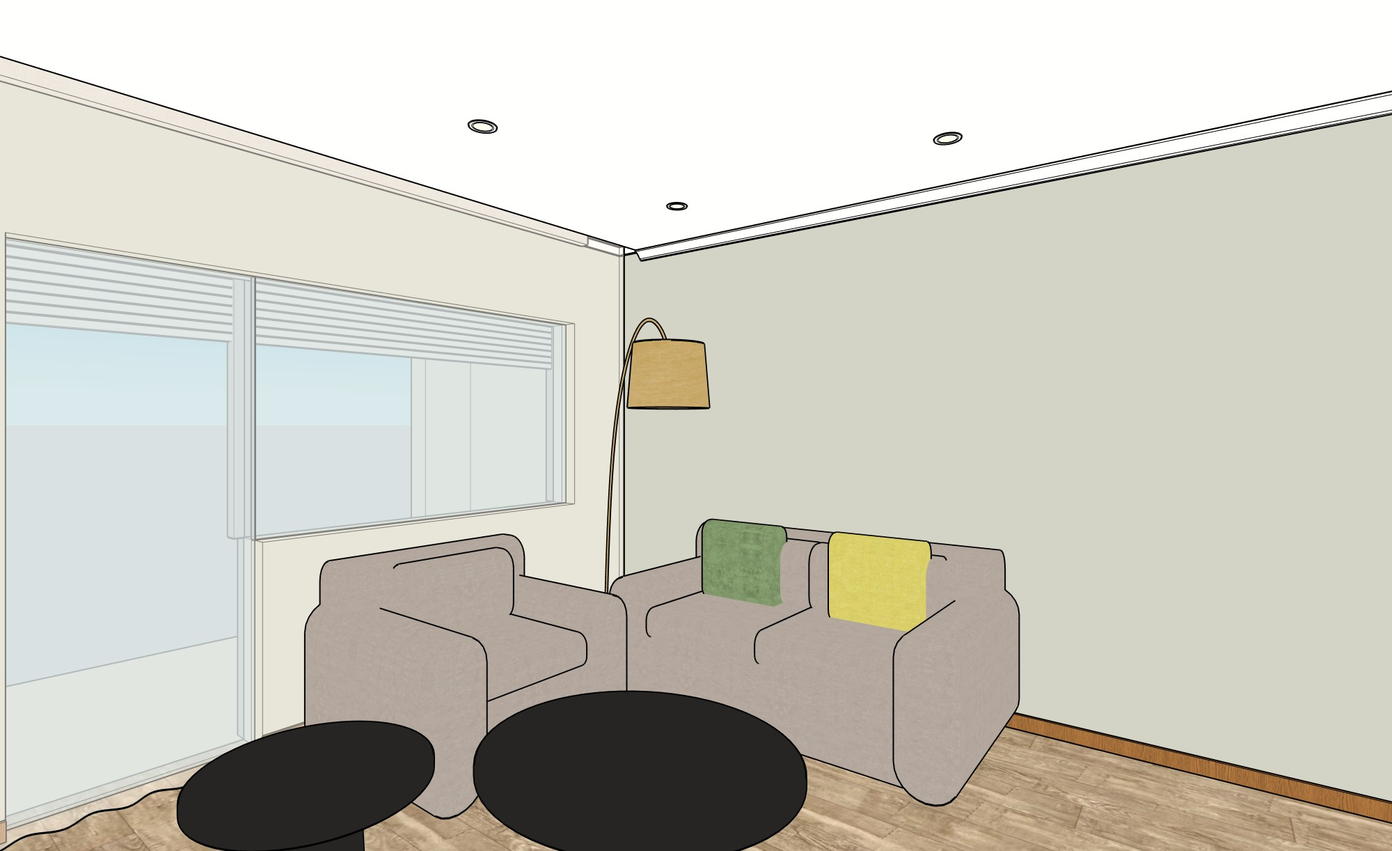
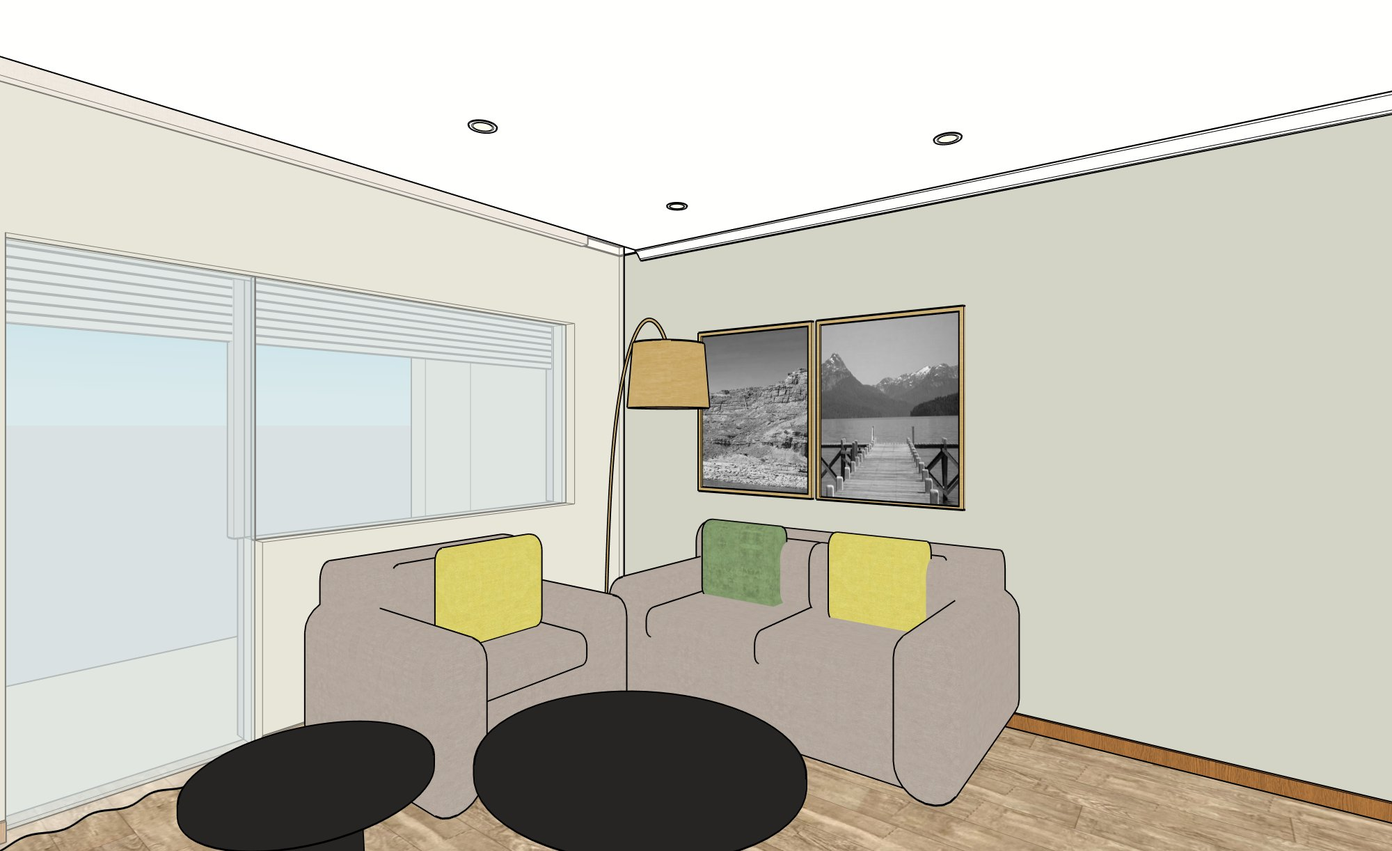
Anteproyecto 201 modelado: mesa de luz Calvin II como variante, cuadros del living en ambas opciones

Changed region(s): [[0.496, 0.3421, 0.713, 0.6219], [0.31, 0.6219, 0.403, 0.7774]]

diff --git a/propuestas/hotel-land-express/proyecto/201/index.html b/propuestas/hotel-land-express/proyecto/201/index.html
@@ -740,7 +740,7 @@
   <div class="fl">Arq. Clara Tacco Carulli &amp; D.I. Lucía Da Silva</div><div class="fr">Cliente · Hotel Land Express</div>
   <div class="t rv"><h1>Modelado 3D <span>· Dormitorio</span></h1><div class="s">Opción completa</div></div>
   <div class="pad"><div class="rnd full">
-    <div class="frame has"><div class="pic" style="--ar:1.637"><img src="img/A_dorm.jpg" alt="Modelado 3D Dormitorio"></div></div>
+    <div class="frame has"><div class="pic" style="--ar:1.637"><img src="img/A_dorm.jpg" alt="Modelado 3D Dormitorio"><img class="altimg" data-o="1" src="img/A_dorm_calvin.jpg" alt="Modelado 3D Dormitorio · opción Calvin II"><div class="opt"><span>Ver</span><button class="on" data-o="0">Mesas Hanoi<small>Sahara</small></button><button data-o="1">Calvin II<small>C-Home</small></button></div></div></div>
   </div></div>
   <div class="num"></div>
 </section>
@@ -750,7 +750,7 @@
   <div class="t"><h1>Modelado 3D <span>· Dormitorio</span></h1><div class="s">Opción completa · ítem por ítem</div></div>
   <div class="pad"><div class="rnd pins">
     <div class="frame has"><div class="pic" style="--ar:1.637"><img src="img/A_dorm.jpg" alt="Modelado 3D Dormitorio"></div></div>
-    <div class="side"><div class="z rv" style="--d:.15s">Zona</div><h3 class="rv" style="--d:.2s">Qué lleva</h3><div class="objs"><figure class="rv" data-k="0" style="--d:0.30s"><div class="ph" style="background-image:url('img/c_respaldo_a.jpg')"></div><figcaption><b>1</b>Respaldo alto tapizado en panne verde inglés, con faldón</figcaption></figure><figure class="rv" data-k="1" style="--d:0.42s"><div class="ph" style="background-image:url('img/m_sandalo.jpg')"></div><figcaption><b>2</b>Varillado del respaldo en melamina Sándalo (Faplac)</figcaption></figure><figure class="rv" data-k="2" style="--d:0.54s"><div class="ph" style="background-image:url('img/c_led.jpg')"></div><figcaption><b>3</b>Gargantas LED de luz cálida: pared de la cama, cortinas y pasillo de ingreso</figcaption></figure><figure class="rv" data-k="3" style="--d:0.66s"><div class="ph" style="background-image:url('img/c_mesa_luz.jpg')"></div><figcaption><b>4</b>Mesas de luz Hanoi: base en melamina lisa Sahara, más cálida que el blanco y sin vetas</figcaption></figure><figure class="rv" data-k="4" style="--d:0.78s"><div class="ph" style="background-image:url('img/c_cuadros.jpg')"></div><figcaption><b>5</b>Set de 4 cuadros de Neuquén en blanco y negro (Bardas, Río Limay, Villa La Angostura y Lanín) en la pared lateral, alineados arriba con el placard</figcaption></figure><figure class="rv" data-k="5" style="--d:0.90s"><div class="ph" style="background-image:url('img/tx_t0.jpg')"></div><figcaption><b>6</b>Cubrecama jacquard en verde grisáceo</figcaption></figure><figure class="rv" data-k="6" style="--d:1.02s"><div class="ph" style="background-image:url('img/c_blackout.jpg')"></div><figcaption><b>7</b>Cortina blackout textil color arena, en riel doble con el voile: de noche no entra luz</figcaption></figure></div></div>
+    <div class="side"><div class="z rv" style="--d:.15s">Zona</div><h3 class="rv" style="--d:.2s">Qué lleva</h3><div class="objs"><figure class="rv" data-k="0" style="--d:0.30s"><div class="ph" style="background-image:url('img/c_respaldo_a.jpg')"></div><figcaption><b>1</b>Respaldo alto tapizado en panne verde inglés, con faldón</figcaption></figure><figure class="rv" data-k="1" style="--d:0.42s"><div class="ph" style="background-image:url('img/m_sandalo.jpg')"></div><figcaption><b>2</b>Varillado del respaldo en melamina Sándalo (Faplac)</figcaption></figure><figure class="rv" data-k="2" style="--d:0.54s"><div class="ph" style="background-image:url('img/c_led.jpg')"></div><figcaption><b>3</b>Gargantas LED de luz cálida: pared de la cama, cortinas y pasillo de ingreso</figcaption></figure><figure class="rv" data-k="3" style="--d:0.66s"><div class="ph" style="background-image:url('img/c_mesa_luz.jpg')"></div><figcaption><b>4</b>Mesas de luz Hanoi: base en melamina lisa Sahara, más cálida que el blanco y sin vetas</figcaption></figure><figure class="rv" data-k="4" style="--d:0.78s"><div class="ph" style="background-image:url('img/o_calvin.jpg')"></div><figcaption><b>5</b>Variante · Mesa de luz Calvin II (C-Home), 0,70 × 0,45 × h 0,70, laqueada (color a elección) con estructura de metal</figcaption><a class="lnk" href="https://www.c-home.com.ar/productos/mesa-de-luz-cattelan-p7w51/" target="_blank" rel="noopener">Ver producto ↗</a></figure><figure class="rv" data-k="5" style="--d:0.90s"><div class="ph" style="background-image:url('img/c_cuadros.jpg')"></div><figcaption><b>6</b>Set de 4 cuadros de Neuquén en blanco y negro (Bardas, Río Limay, Villa La Angostura y Lanín) en la pared lateral, alineados arriba con el placard</figcaption></figure><figure class="rv" data-k="6" style="--d:1.02s"><div class="ph" style="background-image:url('img/tx_t0.jpg')"></div><figcaption><b>7</b>Cubrecama jacquard en verde grisáceo</figcaption></figure><figure class="rv" data-k="7" style="--d:1.14s"><div class="ph" style="background-image:url('img/c_blackout.jpg')"></div><figcaption><b>8</b>Cortina blackout textil color arena, en riel doble con el voile: de noche no entra luz</figcaption></figure></div></div>
   </div></div>
   <div class="num"></div>
 </section>
@@ -759,7 +759,7 @@
   <div class="fl">Arq. Clara Tacco Carulli &amp; D.I. Lucía Da Silva</div><div class="fr">Cliente · Hotel Land Express</div>
   <div class="t rv"><h1>Modelado 3D <span>· Dormitorio</span></h1><div class="s">Opción esencial</div></div>
   <div class="pad"><div class="rnd full">
-    <div class="frame has"><div class="pic" style="--ar:1.637"><img src="img/B_dorm.jpg" alt="Modelado 3D Dormitorio"></div></div>
+    <div class="frame has"><div class="pic" style="--ar:1.637"><img src="img/B_dorm.jpg" alt="Modelado 3D Dormitorio"><img class="altimg" data-o="1" src="img/B_dorm_calvin.jpg" alt="Modelado 3D Dormitorio · opción Calvin II"><div class="opt"><span>Ver</span><button class="on" data-o="0">Mesas Hanoi<small>Sahara</small></button><button data-o="1">Calvin II<small>C-Home</small></button></div></div></div>
   </div></div>
   <div class="num"></div>
 </section>
@@ -769,7 +769,7 @@
   <div class="t"><h1>Modelado 3D <span>· Dormitorio</span></h1><div class="s">Opción esencial · ítem por ítem</div></div>
   <div class="pad"><div class="rnd pins">
     <div class="frame has"><div class="pic" style="--ar:1.637"><img src="img/B_dorm.jpg" alt="Modelado 3D Dormitorio"></div></div>
-    <div class="side"><div class="z rv" style="--d:.15s">Zona</div><h3 class="rv" style="--d:.2s">Qué lleva</h3><div class="objs many"><figure class="rv" data-k="0" style="--d:0.30s"><div class="ph" style="background-image:url('img/tx_riviera.jpg')"></div><figcaption><b>1</b>Papel Muresco Riviera Maison 219954, verde salvia claro, textura tipo lino, en la pared de la cama</figcaption></figure><figure class="rv" data-k="1" style="--d:0.42s"><div class="ph" style="background-image:url('img/sw_pared_b.jpg')"></div><figcaption><b>2</b>Resto de las paredes pintadas en tono acorde al papel (no blanco). Todo lo que es pared va pintado; molduras y cielo raso en blanco tiznado</figcaption></figure><figure class="rv" data-k="2" style="--d:0.54s"><div class="ph" style="background-image:url('img/c_mesa_luz.jpg')"></div><figcaption><b>3</b>Mesas de luz Hanoi: base en melamina lisa Sahara, más cálida que el blanco y sin vetas</figcaption></figure><figure class="rv" data-k="3" style="--d:0.66s"><div class="ph" style="background-image:url('img/c_cuadros.jpg')"></div><figcaption><b>4</b>Set de 4 cuadros de Neuquén en blanco y negro (Bardas, Río Limay, Villa La Angostura y Lanín) en la pared lateral, alineados arriba con el placard</figcaption></figure><figure class="rv" data-k="4" style="--d:0.78s"><div class="ph" style="background-image:url('img/c_colgantes_luz.jpg')"></div><figcaption><b>5</b>Colgantes Milan sobre las mesas de luz, los mismos del escritorio, a 1,65 m del piso, fuera del alcance</figcaption></figure><figure class="rv" data-k="5" style="--d:0.90s"><div class="ph" style="background-image:url('img/c_pie_cama.jpg')"></div><figcaption><b>6</b>Pie de cama en panne verde inglés, 0,50 de ancho, cae a los costados</figcaption></figure><figure class="rv" data-k="6" style="--d:1.02s"><div class="ph" style="background-image:url('img/c_respaldo_b.jpg')"></div><figcaption><b>7</b>Respaldo de cuero existente, se conserva</figcaption></figure><figure class="rv" data-k="7" style="--d:1.14s"><div class="ph" style="background-image:url('img/tx_t0.jpg')"></div><figcaption><b>8</b>Cubrecama jacquard en verde grisáceo</figcaption></figure><figure class="rv" data-k="8" style="--d:1.26s"><div class="ph" style="background-image:url('img/c_blackout.jpg')"></div><figcaption><b>9</b>Cortina blackout textil color arena, en riel doble con el voile: de noche no entra luz</figcaption></figure></div></div>
+    <div class="side"><div class="z rv" style="--d:.15s">Zona</div><h3 class="rv" style="--d:.2s">Qué lleva</h3><div class="objs many"><figure class="rv" data-k="0" style="--d:0.30s"><div class="ph" style="background-image:url('img/tx_riviera.jpg')"></div><figcaption><b>1</b>Papel Muresco Riviera Maison 219954, verde salvia claro, textura tipo lino, en la pared de la cama</figcaption></figure><figure class="rv" data-k="1" style="--d:0.42s"><div class="ph" style="background-image:url('img/sw_pared_b.jpg')"></div><figcaption><b>2</b>Resto de las paredes pintadas en tono acorde al papel (no blanco). Todo lo que es pared va pintado; molduras y cielo raso en blanco tiznado</figcaption></figure><figure class="rv" data-k="2" style="--d:0.54s"><div class="ph" style="background-image:url('img/c_mesa_luz.jpg')"></div><figcaption><b>3</b>Mesas de luz Hanoi: base en melamina lisa Sahara, más cálida que el blanco y sin vetas</figcaption></figure><figure class="rv" data-k="3" style="--d:0.66s"><div class="ph" style="background-image:url('img/o_calvin.jpg')"></div><figcaption><b>4</b>Variante · Mesa de luz Calvin II (C-Home), 0,70 × 0,45 × h 0,70, laqueada (color a elección) con estructura de metal</figcaption><a class="lnk" href="https://www.c-home.com.ar/productos/mesa-de-luz-cattelan-p7w51/" target="_blank" rel="noopener">Ver producto ↗</a></figure><figure class="rv" data-k="4" style="--d:0.78s"><div class="ph" style="background-image:url('img/c_cuadros.jpg')"></div><figcaption><b>5</b>Set de 4 cuadros de Neuquén en blanco y negro (Bardas, Río Limay, Villa La Angostura y Lanín) en la pared lateral, alineados arriba con el placard</figcaption></figure><figure class="rv" data-k="5" style="--d:0.90s"><div class="ph" style="background-image:url('img/c_colgantes_luz.jpg')"></div><figcaption><b>6</b>Colgantes Milan sobre las mesas de luz, los mismos del escritorio, a 1,65 m del piso, fuera del alcance</figcaption></figure><figure class="rv" data-k="6" style="--d:1.02s"><div class="ph" style="background-image:url('img/c_pie_cama.jpg')"></div><figcaption><b>7</b>Pie de cama en panne verde inglés, 0,50 de ancho, cae a los costados</figcaption></figure><figure class="rv" data-k="7" style="--d:1.14s"><div class="ph" style="background-image:url('img/c_respaldo_b.jpg')"></div><figcaption><b>8</b>Respaldo de cuero existente, se conserva</figcaption></figure><figure class="rv" data-k="8" style="--d:1.26s"><div class="ph" style="background-image:url('img/tx_t0.jpg')"></div><figcaption><b>9</b>Cubrecama jacquard en verde grisáceo</figcaption></figure><figure class="rv" data-k="9" style="--d:1.38s"><div class="ph" style="background-image:url('img/c_blackout.jpg')"></div><figcaption><b>10</b>Cortina blackout textil color arena, en riel doble con el voile: de noche no entra luz</figcaption></figure></div></div>
   </div></div>
   <div class="num"></div>
 </section>
@@ -832,7 +832,7 @@
   <div class="t"><h1>Modelado 3D <span>· Living</span></h1><div class="s">Opción completa · ítem por ítem</div></div>
   <div class="pad"><div class="rnd pins">
     <div class="frame has"><div class="pic" style="--ar:1.637"><img src="img/A_liv.jpg" alt="Modelado 3D Living"></div></div>
-    <div class="side"><div class="z rv" style="--d:.15s">Zona</div><h3 class="rv" style="--d:.2s">Qué lleva</h3><div class="objs many"><figure class="rv" data-k="0" style="--d:0.30s"><div class="ph" style="background-image:url('img/o_bold.webp')"></div><figcaption><b>1</b>Sofá Bold (Antequera), 1,90 × 0,70 × h 0,82, en Tucson Beige</figcaption><a class="lnk" href="https://antequeramuebles.com.ar/productos/sofa-bolt-1o9vi/" target="_blank" rel="noopener">Ver producto ↗</a></figure><figure class="rv" data-k="1" style="--d:0.42s"><div class="ph" style="background-image:url('img/o_sofa.jpg')"></div><figcaption><b>2</b>Variante · Sofá Curvey existente, retapizado en Tucson Beige</figcaption><a class="lnk" href="https://antequeramuebles.com.ar/productos/2026-sofa-curvey-eplry/" target="_blank" rel="noopener">Ver producto ↗</a></figure><figure class="rv" data-k="2" style="--d:0.54s"><div class="ph" style="background-image:url('img/o_napoli.jpg')"></div><figcaption><b>3</b>Sillones Napoli (Dellacasa), 0,94 × 0,88 × h 0,73, en Tucson Sand</figcaption><a class="lnk" href="https://dellacasa.com.ar/producto/living/sillones-de-1-cuerpo/sillon-napoli/" target="_blank" rel="noopener">Ver producto ↗</a></figure><figure class="rv" data-k="3" style="--d:0.66s"><div class="ph" style="background-image:url('img/o_blau.webp')"></div><figcaption><b>4</b>Variante · Sillones Blau (Antequera), 0,64 × 0,68 × h 0,85, madera Sándalo y Tucson Sand</figcaption><a class="lnk" href="https://antequeramuebles.com.ar/productos/sillon-de-living-blau-7b5ae/" target="_blank" rel="noopener">Ver producto ↗</a></figure><figure class="rv" data-k="4" style="--d:0.78s"><div class="ph" style="background-image:url('img/o_nina.webp')"></div><figcaption><b>5</b>Mesas ratonas Nina (Antequera) en negro mate, para dar contraste (referencia: Faplac Negro Extreme Matt): 1,05 × 0,90 × h 0,40 y 0,59 × 0,65 × h 0,46</figcaption><a class="lnk" href="https://antequeramuebles.com.ar/productos/mesa-centro-nina-15i0t/" target="_blank" rel="noopener">Ver producto ↗</a></figure><figure class="rv" data-k="5" style="--d:0.90s"><div class="ph" style="background-image:url('img/o_italian.webp')"></div><figcaption><b>6</b>Variante · Mesas Italian (Antequera) en dorado: Ø 0,50 × h 0,50 y Ø 0,40 × h 0,65</figcaption><a class="lnk" href="https://antequeramuebles.com.ar/productos/2026-mesa-italian-zf1m6/" target="_blank" rel="noopener">Ver producto ↗</a></figure><figure class="rv" data-k="6" style="--d:1.02s"><div class="ph" style="background-image:url('img/c_almohadones.jpg')"></div><figcaption><b>7</b>Almohadones en panne verde inglés y lima en el sofá, y uno lima en cada sillón</figcaption></figure><figure class="rv" data-k="7" style="--d:1.14s"><div class="ph" style="background-image:url('img/o_cortinas.jpg')"></div><figcaption><b>8</b>Voile Trevira CS traslúcido: liviano, lavable, ignífugo (apto hotel) y resistente. Deja ver el balcón</figcaption></figure><figure class="rv" data-k="8" style="--d:1.26s"><div class="ph" style="background-image:url('img/c_persiana.jpg')"></div><figcaption><b>9</b>Persiana exterior de aluminio con cajón visto, en ventana y puerta balcón, para oscurecer del todo. A confirmar con el consorcio por la fachada</figcaption></figure></div></div>
+    <div class="side"><div class="z rv" style="--d:.15s">Zona</div><h3 class="rv" style="--d:.2s">Qué lleva</h3><div class="objs many"><figure class="rv" data-k="0" style="--d:0.30s"><div class="ph" style="background-image:url('img/o_bold.webp')"></div><figcaption><b>1</b>Sofá Bold (Antequera), 1,90 × 0,70 × h 0,82, en Tucson Beige</figcaption><a class="lnk" href="https://antequeramuebles.com.ar/productos/sofa-bolt-1o9vi/" target="_blank" rel="noopener">Ver producto ↗</a></figure><figure class="rv" data-k="1" style="--d:0.42s"><div class="ph" style="background-image:url('img/o_sofa.jpg')"></div><figcaption><b>2</b>Variante · Sofá Curvey existente, retapizado en Tucson Beige</figcaption><a class="lnk" href="https://antequeramuebles.com.ar/productos/2026-sofa-curvey-eplry/" target="_blank" rel="noopener">Ver producto ↗</a></figure><figure class="rv" data-k="2" style="--d:0.54s"><div class="ph" style="background-image:url('img/o_napoli.jpg')"></div><figcaption><b>3</b>Sillones Napoli (Dellacasa), 0,94 × 0,88 × h 0,73, en Tucson Sand</figcaption><a class="lnk" href="https://dellacasa.com.ar/producto/living/sillones-de-1-cuerpo/sillon-napoli/" target="_blank" rel="noopener">Ver producto ↗</a></figure><figure class="rv" data-k="3" style="--d:0.66s"><div class="ph" style="background-image:url('img/o_blau.webp')"></div><figcaption><b>4</b>Variante · Sillones Blau (Antequera), 0,64 × 0,68 × h 0,85, madera Sándalo y Tucson Sand</figcaption><a class="lnk" href="https://antequeramuebles.com.ar/productos/sillon-de-living-blau-7b5ae/" target="_blank" rel="noopener">Ver producto ↗</a></figure><figure class="rv" data-k="4" style="--d:0.78s"><div class="ph" style="background-image:url('img/o_nina.webp')"></div><figcaption><b>5</b>Mesas ratonas Nina (Antequera) en negro mate, para dar contraste (referencia: Faplac Negro Extreme Matt): 1,05 × 0,90 × h 0,40 y 0,59 × 0,65 × h 0,46</figcaption><a class="lnk" href="https://antequeramuebles.com.ar/productos/mesa-centro-nina-15i0t/" target="_blank" rel="noopener">Ver producto ↗</a></figure><figure class="rv" data-k="5" style="--d:0.90s"><div class="ph" style="background-image:url('img/o_italian.webp')"></div><figcaption><b>6</b>Variante · Mesas Italian (Antequera) en dorado: Ø 0,50 × h 0,50 y Ø 0,40 × h 0,65</figcaption><a class="lnk" href="https://antequeramuebles.com.ar/productos/2026-mesa-italian-zf1m6/" target="_blank" rel="noopener">Ver producto ↗</a></figure><figure class="rv" data-k="6" style="--d:1.02s"><div class="ph" style="background-image:url('img/c_almohadones.jpg')"></div><figcaption><b>7</b>Almohadones en panne verde inglés y lima en el sofá, y uno lima en cada sillón</figcaption></figure><figure class="rv" data-k="7" style="--d:1.14s"><div class="ph" style="background-image:url('img/c_cuadros_living.jpg')"></div><figcaption><b>8</b>Dos cuadros grandes de paisajes de Neuquén sobre el sofá, en blanco y negro con marco dorado</figcaption></figure><figure class="rv" data-k="8" style="--d:1.26s"><div class="ph" style="background-image:url('img/o_cortinas.jpg')"></div><figcaption><b>9</b>Voile Trevira CS traslúcido: liviano, lavable, ignífugo (apto hotel) y resistente. Deja ver el balcón</figcaption></figure><figure class="rv" data-k="9" style="--d:1.38s"><div class="ph" style="background-image:url('img/c_persiana.jpg')"></div><figcaption><b>10</b>Persiana exterior de aluminio con cajón visto, en ventana y puerta balcón, para oscurecer del todo. A confirmar con el consorcio por la fachada</figcaption></figure></div></div>
   </div></div>
   <div class="num"></div>
 </section>
@@ -851,7 +851,7 @@
   <div class="t"><h1>Modelado 3D <span>· Living</span></h1><div class="s">Opción esencial · ítem por ítem</div></div>
   <div class="pad"><div class="rnd pins">
     <div class="frame has"><div class="pic" style="--ar:1.637"><img src="img/B_liv.jpg" alt="Modelado 3D Living"></div></div>
-    <div class="side"><div class="z rv" style="--d:.15s">Zona</div><h3 class="rv" style="--d:.2s">Qué lleva</h3><div class="objs"><figure class="rv" data-k="0" style="--d:0.30s"><div class="ph" style="background-image:url('img/c_sillones_b.jpg')"></div><figcaption><b>1</b>Sillones existentes de 2 y 1 cuerpo, retapizados en Tucson Beige, almohadones en panne verde y lima</figcaption></figure><figure class="rv" data-k="1" style="--d:0.42s"><div class="ph" style="background-image:url('img/o_nina.webp')"></div><figcaption><b>2</b>Mesas ratonas Nina (Antequera) en negro mate, para dar contraste (referencia: Faplac Negro Extreme Matt): 1,05 × 0,90 × h 0,40 y 0,59 × 0,65 × h 0,46</figcaption><a class="lnk" href="https://antequeramuebles.com.ar/productos/mesa-centro-nina-15i0t/" target="_blank" rel="noopener">Ver producto ↗</a></figure><figure class="rv" data-k="2" style="--d:0.54s"><div class="ph" style="background-image:url('img/o_italian.webp')"></div><figcaption><b>3</b>Variante · Mesas Italian (Antequera) en dorado: Ø 0,50 × h 0,50 y Ø 0,40 × h 0,65</figcaption><a class="lnk" href="https://antequeramuebles.com.ar/productos/2026-mesa-italian-zf1m6/" target="_blank" rel="noopener">Ver producto ↗</a></figure><figure class="rv" data-k="3" style="--d:0.66s"><div class="ph" style="background-image:url('img/o_cortinas.jpg')"></div><figcaption><b>4</b>Voile Trevira CS traslúcido: liviano, lavable, ignífugo (apto hotel) y resistente. Deja ver el balcón</figcaption></figure><figure class="rv" data-k="4" style="--d:0.78s"><div class="ph" style="background-image:url('img/c_persiana.jpg')"></div><figcaption><b>5</b>Persiana exterior de aluminio con cajón visto, en ventana y puerta balcón, para oscurecer del todo. A confirmar con el consorcio por la fachada</figcaption></figure></div></div>
+    <div class="side"><div class="z rv" style="--d:.15s">Zona</div><h3 class="rv" style="--d:.2s">Qué lleva</h3><div class="objs"><figure class="rv" data-k="0" style="--d:0.30s"><div class="ph" style="background-image:url('img/c_sillones_b.jpg')"></div><figcaption><b>1</b>Sillones existentes de 2 y 1 cuerpo, retapizados en Tucson Beige, almohadones en panne verde y lima</figcaption></figure><figure class="rv" data-k="1" style="--d:0.42s"><div class="ph" style="background-image:url('img/o_nina.webp')"></div><figcaption><b>2</b>Mesas ratonas Nina (Antequera) en negro mate, para dar contraste (referencia: Faplac Negro Extreme Matt): 1,05 × 0,90 × h 0,40 y 0,59 × 0,65 × h 0,46</figcaption><a class="lnk" href="https://antequeramuebles.com.ar/productos/mesa-centro-nina-15i0t/" target="_blank" rel="noopener">Ver producto ↗</a></figure><figure class="rv" data-k="2" style="--d:0.54s"><div class="ph" style="background-image:url('img/o_italian.webp')"></div><figcaption><b>3</b>Variante · Mesas Italian (Antequera) en dorado: Ø 0,50 × h 0,50 y Ø 0,40 × h 0,65</figcaption><a class="lnk" href="https://antequeramuebles.com.ar/productos/2026-mesa-italian-zf1m6/" target="_blank" rel="noopener">Ver producto ↗</a></figure><figure class="rv" data-k="3" style="--d:0.66s"><div class="ph" style="background-image:url('img/c_cuadros_living.jpg')"></div><figcaption><b>4</b>Dos cuadros grandes de paisajes de Neuquén sobre el sofá, en blanco y negro con marco dorado</figcaption></figure><figure class="rv" data-k="4" style="--d:0.78s"><div class="ph" style="background-image:url('img/o_cortinas.jpg')"></div><figcaption><b>5</b>Voile Trevira CS traslúcido: liviano, lavable, ignífugo (apto hotel) y resistente. Deja ver el balcón</figcaption></figure><figure class="rv" data-k="5" style="--d:0.90s"><div class="ph" style="background-image:url('img/c_persiana.jpg')"></div><figcaption><b>6</b>Persiana exterior de aluminio con cajón visto, en ventana y puerta balcón, para oscurecer del todo. A confirmar con el consorcio por la fachada</figcaption></figure></div></div>
   </div></div>
   <div class="num"></div>
 </section>

diff --git a/propuestas/hotel-land-express/proyecto/_build/data201.js b/propuestas/hotel-land-express/proyecto/_build/data201.js
@@ -55,6 +55,7 @@ module.exports = {
         { img: 'tx_riviera.jpg', t: 'Esencial · Papel Muresco Riviera Maison 219954, verde salvia claro, textura tipo lino, en la pared de la cama' },
         { img: 'sw_pared_b.jpg', t: 'Esencial · Resto de las paredes pintadas en tono acorde al papel (no blanco). Todo lo que es pared va pintado; molduras y cielo raso en blanco tiznado' },
         { img: 'c_mesa_luz.jpg', t: 'Las dos · Mesas de luz Hanoi: base en melamina lisa Sahara, más cálida que el blanco y sin vetas' },
+        { img: 'o_calvin.jpg', t: 'Las dos, opción 2 · Mesa de luz Calvin II (C-Home), 0,70 × 0,45 × h 0,70, laqueada (color a elección) con estructura de metal', url: 'https://www.c-home.com.ar/productos/mesa-de-luz-cattelan-p7w51/' },
         { img: 'c_cuadros.jpg', t: 'Las dos · Set de 4 cuadros de Neuquén en blanco y negro (Bardas, Río Limay, Villa La Angostura y Lanín) en la pared lateral, alineados arriba con el placard' },
         { img: 'c_colgantes_luz.jpg', t: 'Esencial · Colgantes Milan sobre las mesas de luz, los mismos del escritorio, a 1,65 m del piso, fuera del alcance' },
         { img: 'c_pie_cama.jpg', t: 'Esencial · Pie de cama en panne verde inglés, 0,50 de ancho, cae a los costados' },
@@ -91,6 +92,7 @@ module.exports = {
         { img: 'o_nina.webp', t: 'Las dos · Mesas ratonas Nina (Antequera) en negro mate, para dar contraste (referencia: Faplac Negro Extreme Matt): 1,05 × 0,90 × h 0,40 y 0,59 × 0,65 × h 0,46', url: 'https://antequeramuebles.com.ar/productos/mesa-centro-nina-15i0t/' },
         { img: 'o_italian.webp', t: 'Las dos, opción 2 · Mesas Italian (Antequera) en dorado: Ø 0,50 × h 0,50 y Ø 0,40 × h 0,65', url: 'https://antequeramuebles.com.ar/productos/2026-mesa-italian-zf1m6/' },
         { img: 'c_almohadones.jpg', t: 'Completa · Almohadones en panne verde inglés y lima en el sofá, y uno lima en cada sillón' },
+        { img: 'c_cuadros_living.jpg', t: 'Las dos · Dos cuadros grandes de paisajes de Neuquén sobre el sofá, en blanco y negro con marco dorado' },
         { img: 'o_cortinas.jpg', t: 'Las dos · Voile Trevira CS traslúcido: liviano, lavable, ignífugo (apto hotel) y resistente. Deja ver el balcón' },
         { img: 'c_persiana.jpg', t: 'Las dos · Persiana exterior de aluminio con cajón visto, en ventana y puerta balcón, para oscurecer del todo. A confirmar con el consorcio por la fachada' }
       ],
@@ -118,6 +120,9 @@ module.exports = {
 
   // variantes dentro de cada opción (botones sobre la imagen)
   variantes: {
+    'Dormitorio': {
+      A: { t: 'Ver', a: 'Mesas Hanoi', as: 'Sahara', opts: [{ img: 'A_dorm_calvin.jpg', n: 'Calvin II', s: 'C-Home' }] },
+      B: { t: 'Ver', a: 'Mesas Hanoi', as: 'Sahara', opts: [{ img: 'B_dorm_calvin.jpg', n: 'Calvin II', s: 'C-Home' }] } },
     'Escritorio y rack TV': {
       A: { t: 'Ver', a: 'Silla 687', as: 'a medida', opts: [{ img: 'A_esc_oslo.jpg', n: 'Silla Oslo', s: 'variante' }, { img: 'A_esc_ravello.jpg', n: 'Ravello', s: 'escritorio' }] },
       B: { t: 'Ver', a: 'Silla 687', as: 'a medida', opts: [{ img: 'B_esc_oslo.jpg', n: 'Silla Oslo', s: 'variante' }, { img: 'B_esc_ravello.jpg', n: 'Ravello', s: 'escritorio' }] } },
